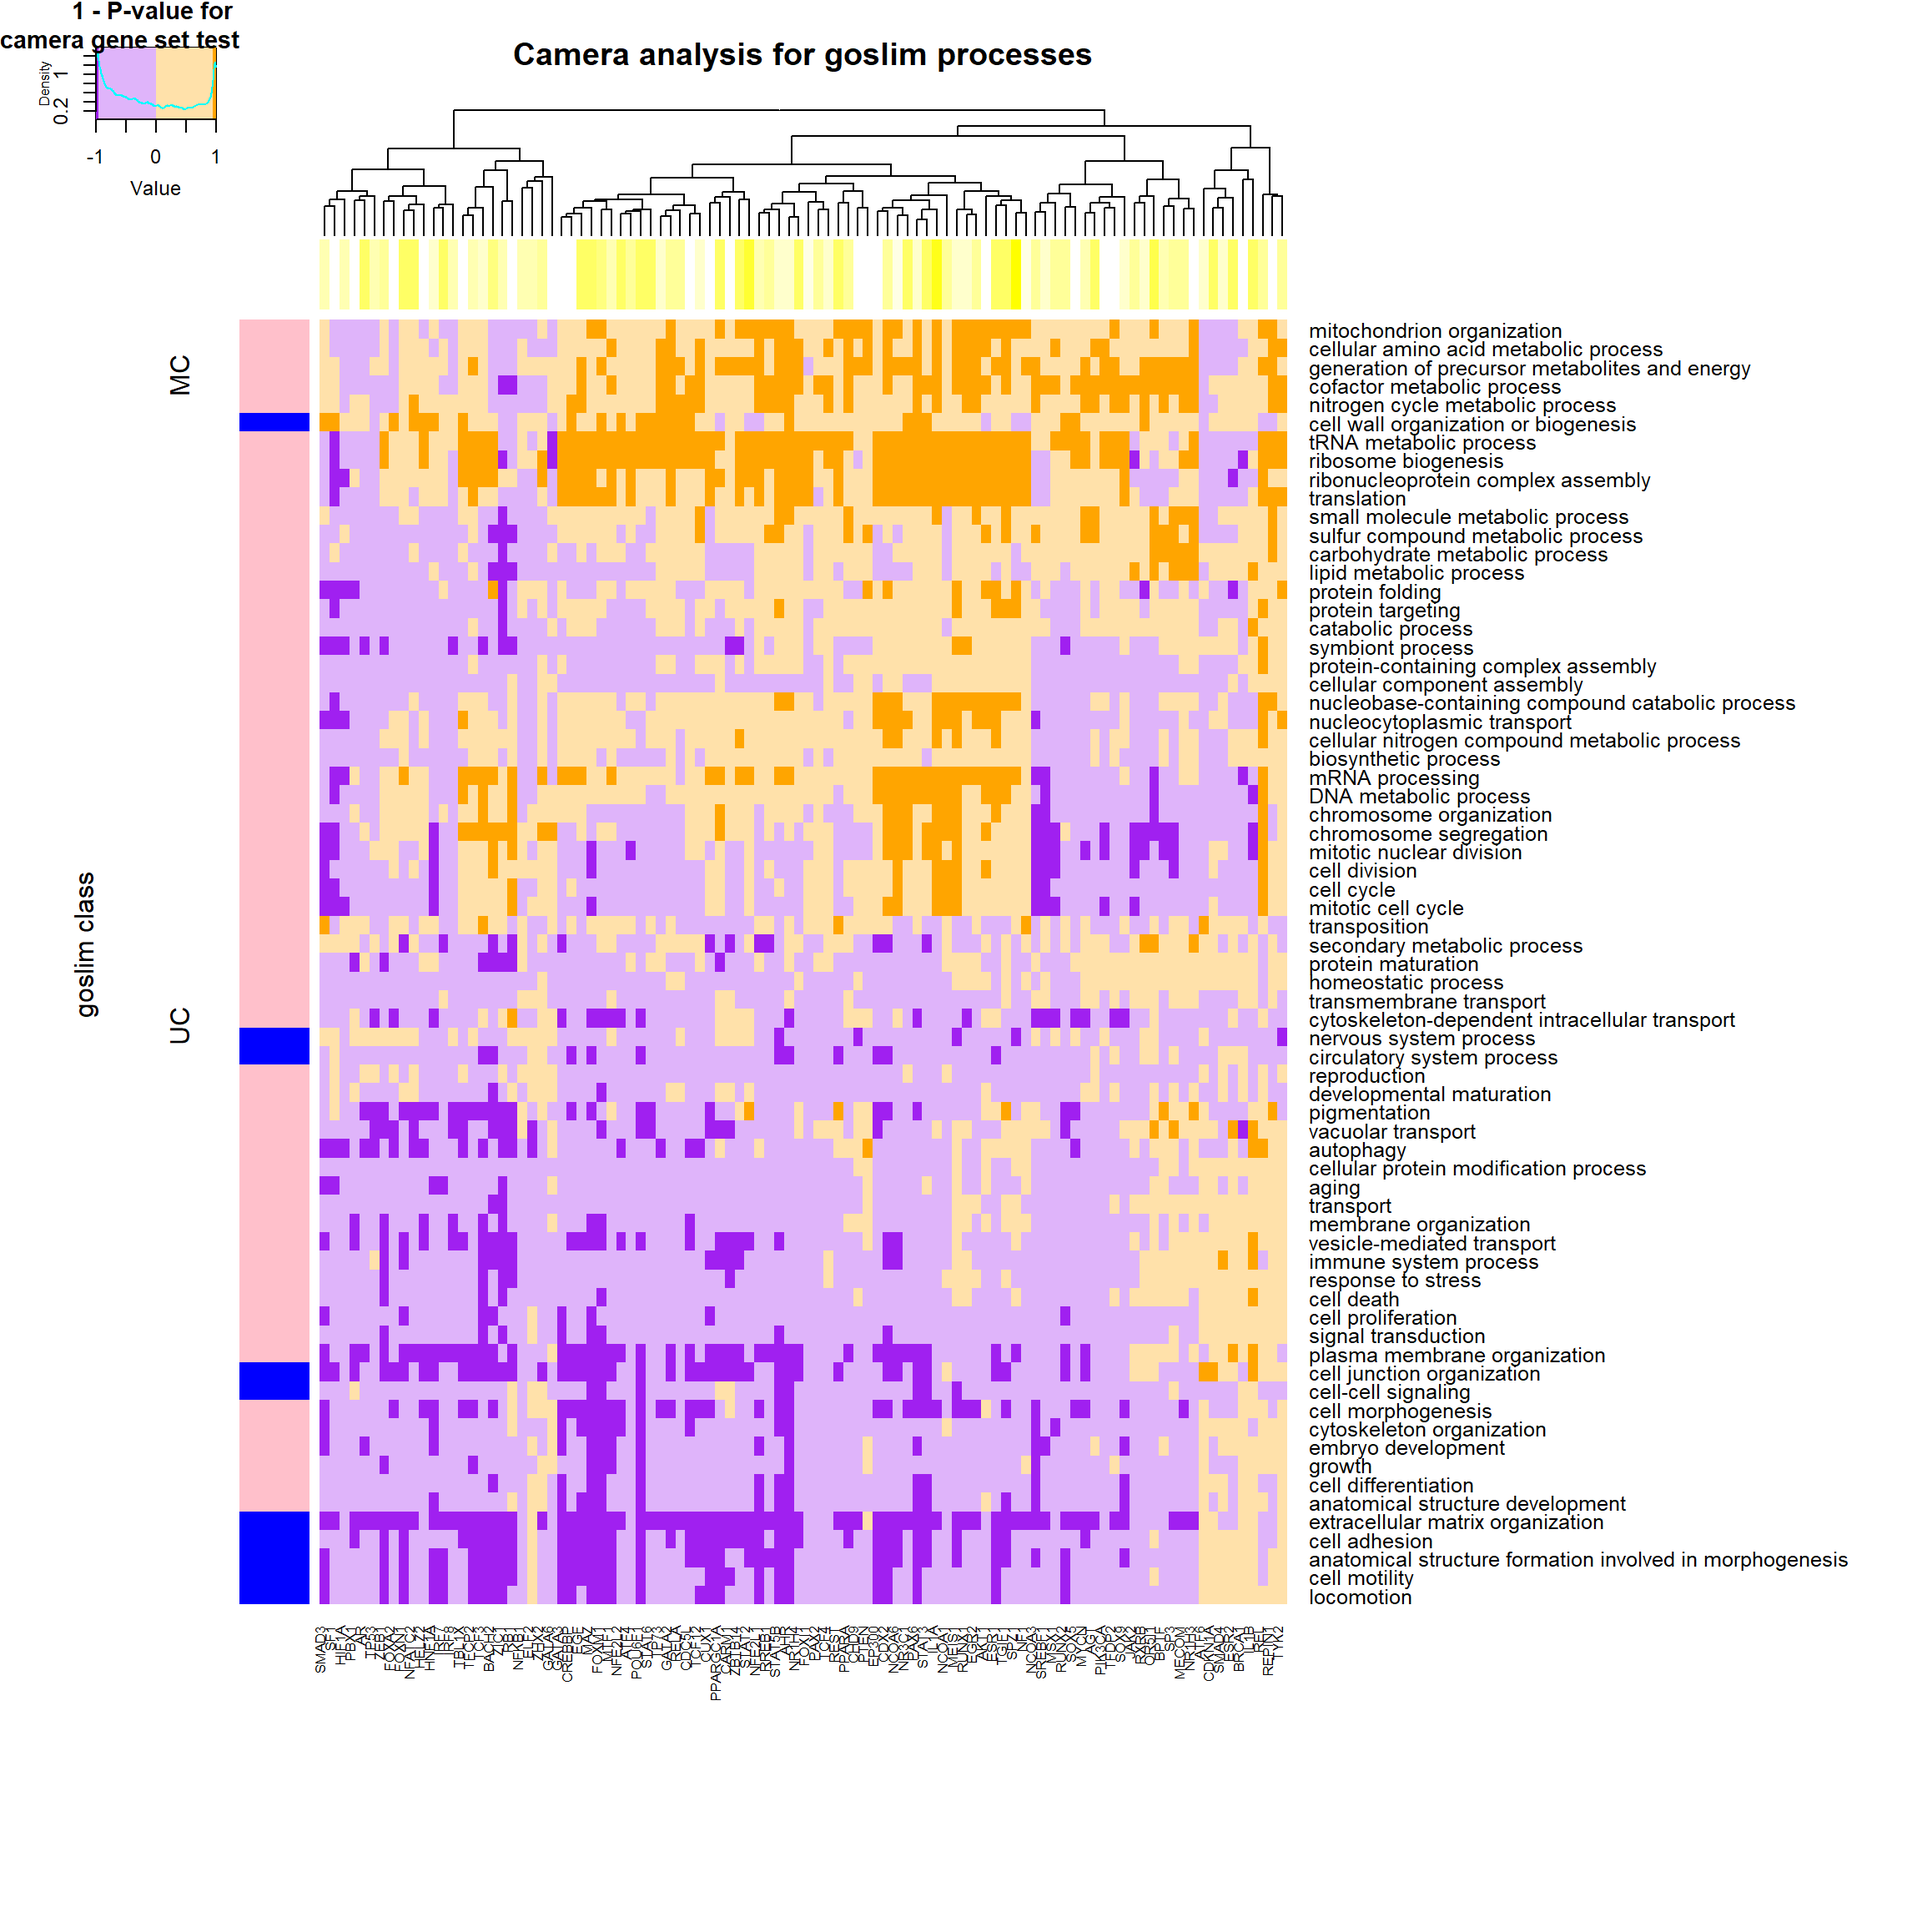
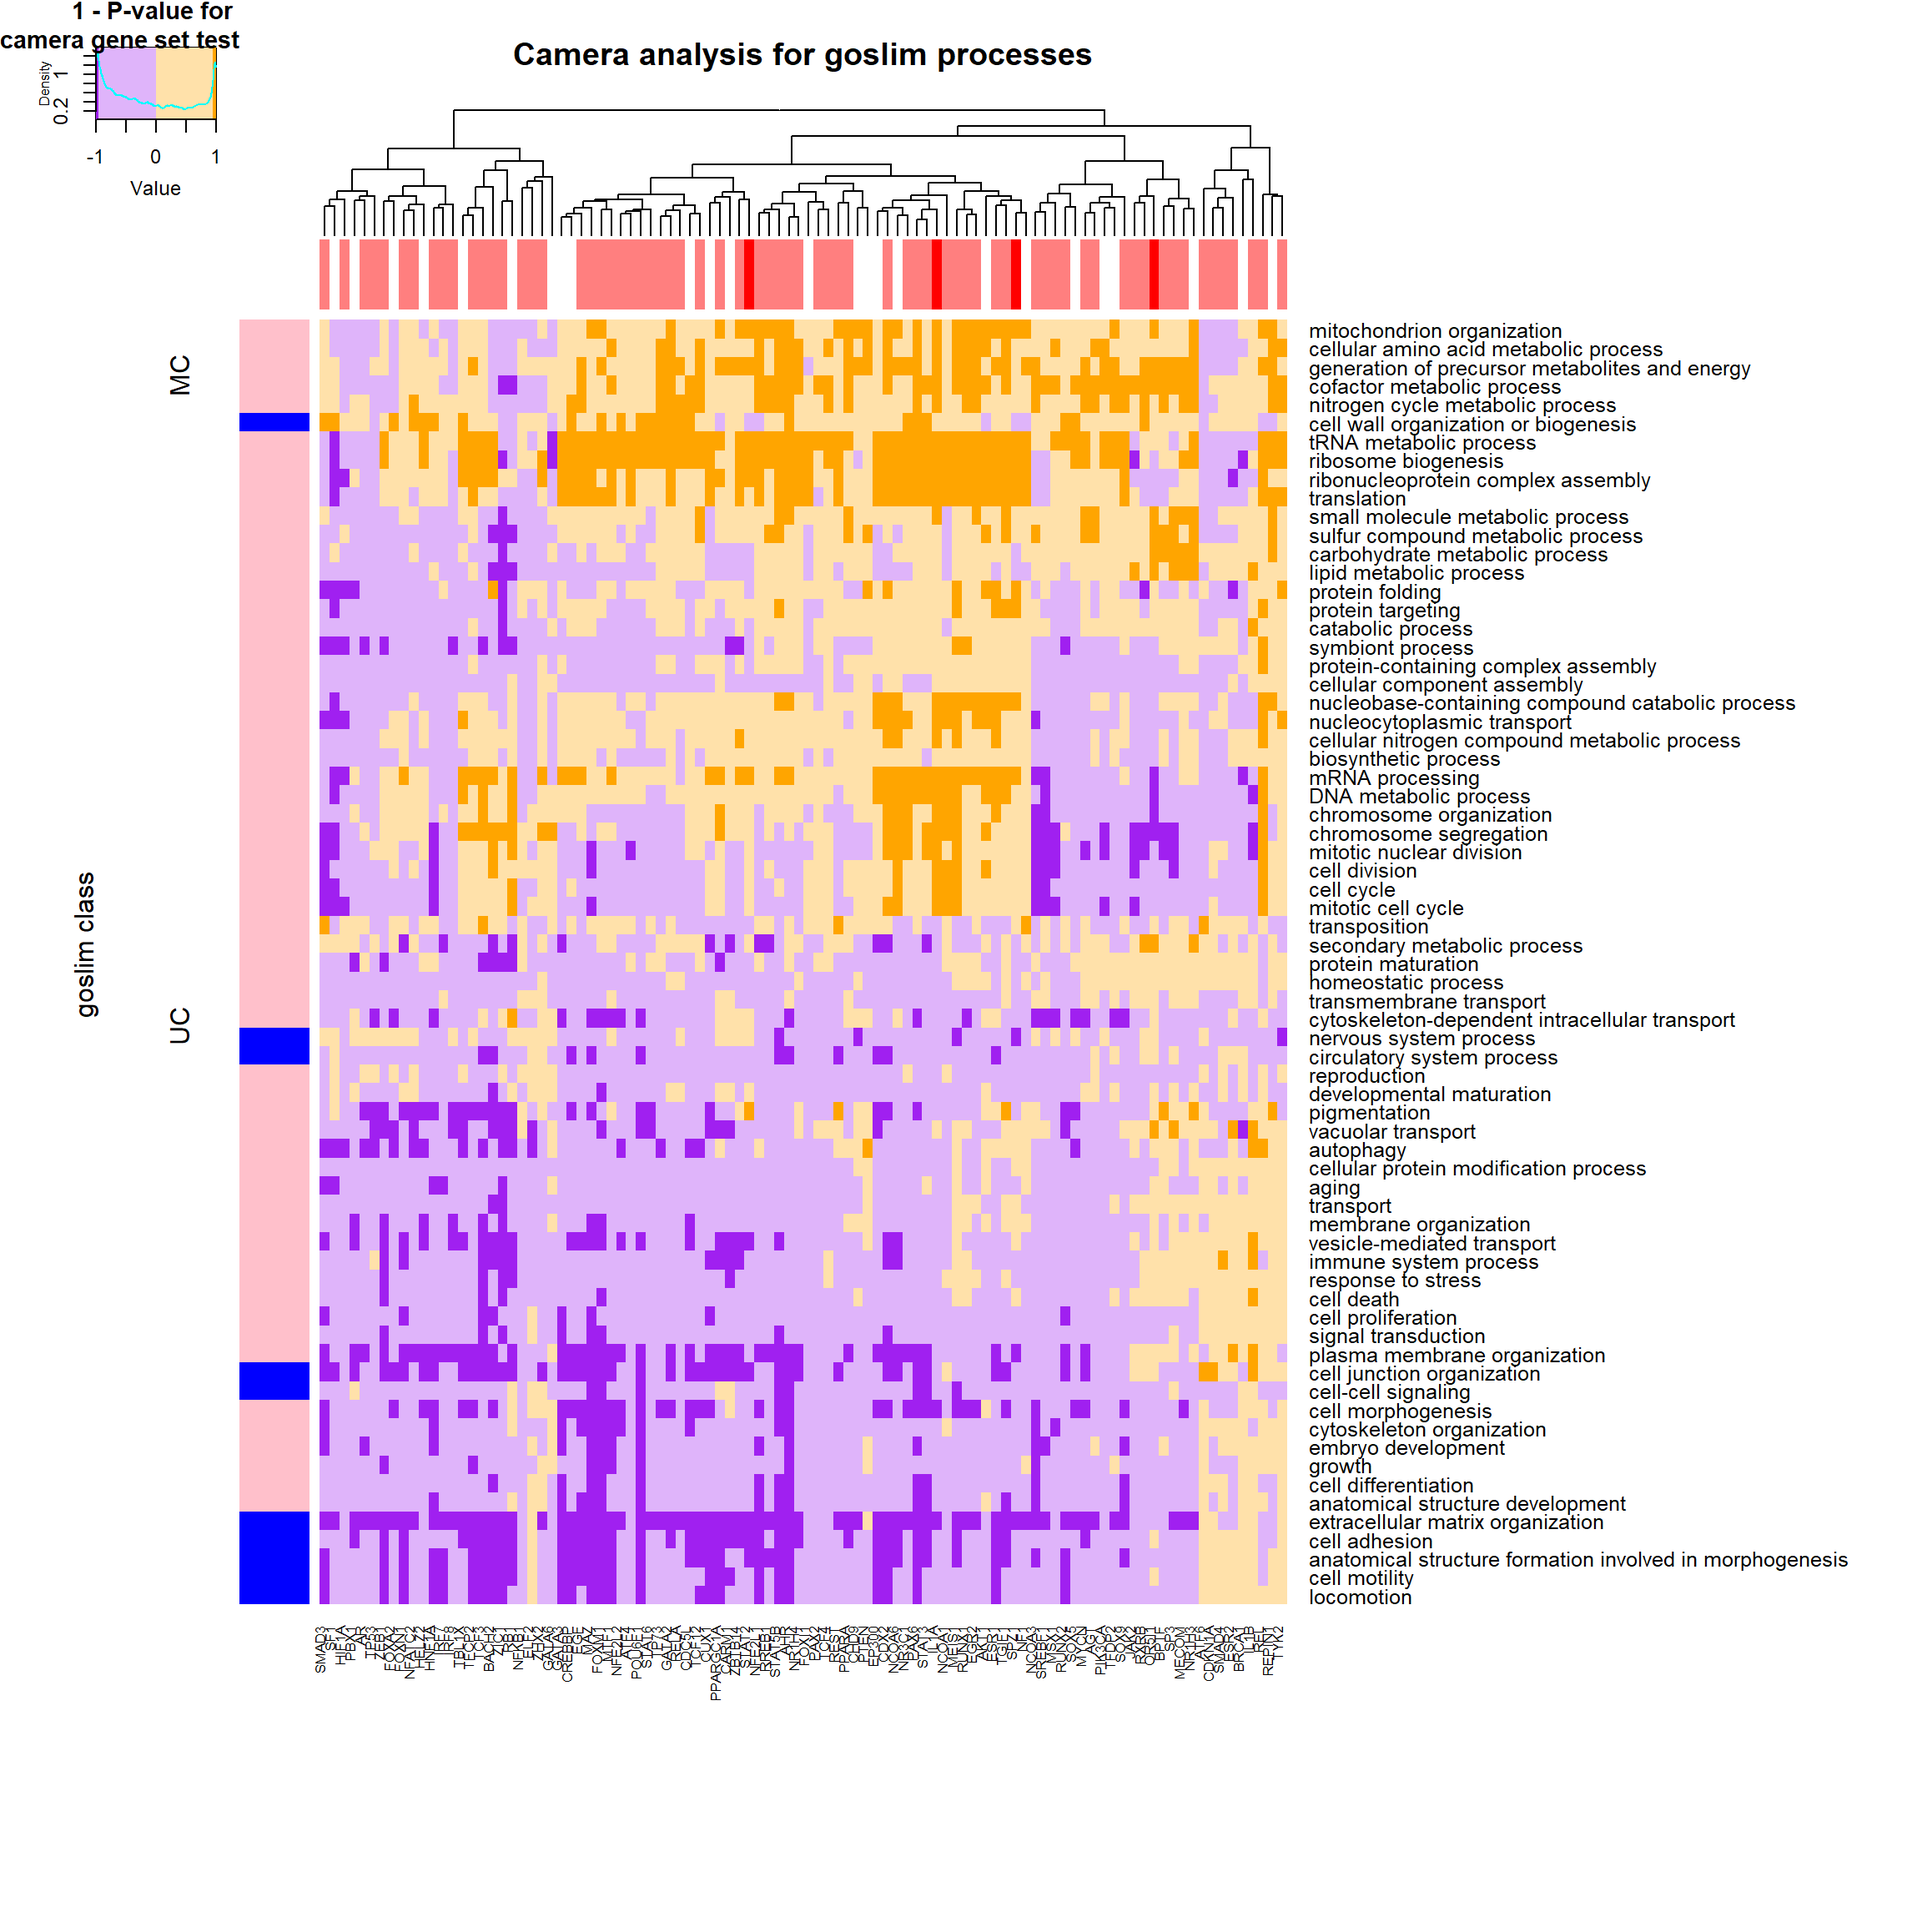
Build site.

Changed region(s): [[0.1562, 0.125, 0.6875, 0.1875]]

diff --git a/docs/gene_set_analysis.html b/docs/gene_set_analysis.html
@@ -361,10 +361,11 @@ div.section {
 </details>
 </li>
 <li>
-<p><details> <summary> <strong style="color:blue;">✔</strong> <strong>Repository version:</strong> <a href="https://github.com/bingrus/myproject/tree/1411de2d2f1071ddf79e6a6ca79662eb42c4e6f2" target="_blank">1411de2</a> </summary></p>
+<p><details> <summary> <strong style="color:blue;">✔</strong> <strong>Repository version:</strong> <a href="https://github.com/bingrus/myproject/tree/90f686666cab58655167fac57023fc593ad9d6a4" target="_blank">90f6866</a> </summary></p>
 Great! You are using Git for version control. Tracking code development and connecting the code version to the results is critical for reproducibility. The version displayed above was the version of the Git repository at the time these results were generated. <br><br> Note that you need to be careful to ensure that all relevant files for the analysis have been committed to Git prior to generating the results (you can use <code>wflow_publish</code> or <code>wflow_git_commit</code>). workflowr only checks the R Markdown file, but you know if there are other scripts or data files that it depends on. Below is the status of the Git repository when the results were generated:
 <pre><code>
 Ignored files:
+    Ignored:    analysis/figure/
     Ignored:    data/.DS_Store
 
 Untracked files:
@@ -429,6 +430,40 @@ Message
 </tr>
 </thead>
 <tbody>
+<tr>
+<td style="text-align:left;">
+Rmd
+</td>
+<td style="text-align:left;">
+<a href="https://github.com/bingrus/myproject/blob/90f686666cab58655167fac57023fc593ad9d6a4/analysis/gene_set_analysis.Rmd" target="_blank">90f6866</a>
+</td>
+<td style="text-align:left;">
+bingrus
+</td>
+<td style="text-align:left;">
+2018-11-27
+</td>
+<td style="text-align:left;">
+wflow_publish(“analysis/gene_set_analysis.Rmd”)
+</td>
+</tr>
+<tr>
+<td style="text-align:left;">
+html
+</td>
+<td style="text-align:left;">
+<a href="https://cdn.rawgit.com/bingrus/myproject/aa188d337c6f704aece67eec58d9d1c4737c0c42/docs/gene_set_analysis.html" target="_blank">aa188d3</a>
+</td>
+<td style="text-align:left;">
+bingrus
+</td>
+<td style="text-align:left;">
+2018-11-27
+</td>
+<td style="text-align:left;">
+Build site.
+</td>
+</tr>
 <tr>
 <td style="text-align:left;">
 Rmd
@@ -733,6 +768,17 @@ Date
 <tbody>
 <tr>
 <td style="text-align:left;">
+<a href="https://github.com/bingrus/myproject/blob/aa188d337c6f704aece67eec58d9d1c4737c0c42/docs/figure/gene_set_analysis.Rmd/plot-1.png" target="_blank">aa188d3</a>
+</td>
+<td style="text-align:left;">
+bingrus
+</td>
+<td style="text-align:left;">
+2018-11-27
+</td>
+</tr>
+<tr>
+<td style="text-align:left;">
 <a href="https://github.com/bingrus/myproject/blob/2dde154c777cf8bf223a3108010ddbaf6db21090/docs/figure/gene_set_analysis.Rmd/plot-1.png" target="_blank">2dde154</a>
 </td>
 <td style="text-align:left;">
@@ -777,7 +823,7 @@ bingrus
 <td align="right">296</td>
 <td align="left">Down</td>
 <td align="right">0.0197967</td>
-<td align="left">0.614413642519273</td>
+<td align="left">0.614413642519274</td>
 <td align="left">NR1H4</td>
 </tr>
 <tr class="even">
@@ -839,6 +885,17 @@ Date
 <tbody>
 <tr>
 <td style="text-align:left;">
+<a href="https://github.com/bingrus/myproject/blob/aa188d337c6f704aece67eec58d9d1c4737c0c42/docs/figure/gene_set_analysis.Rmd/plot2-1.png" target="_blank">aa188d3</a>
+</td>
+<td style="text-align:left;">
+bingrus
+</td>
+<td style="text-align:left;">
+2018-11-27
+</td>
+</tr>
+<tr>
+<td style="text-align:left;">
 <a href="https://github.com/bingrus/myproject/blob/c3b12e2c853041bc04c35e51b215dc8283b4d763/docs/figure/gene_set_analysis.Rmd/plot2-1.png" target="_blank">c3b12e2</a>
 </td>
 <td style="text-align:left;">
@@ -869,15 +926,15 @@ bingrus
 <td align="right">636</td>
 <td align="left">Up</td>
 <td align="right">0.0378782</td>
-<td align="left">0.554598619534061</td>
+<td align="left">0.55459861953406</td>
 <td align="left">TP53</td>
 </tr>
 <tr class="even">
 <td align="right">## barcod</td>
 <td align="left">e plots of r</td>
 <td align="right">esults in sk</td>
-<td align="left">in cancer cell lines</td>
-<td align="left"></td>
+<td align="left">in cancer cell line</td>
+<td align="left">s</td>
 </tr>
 </tbody>
 </table>
@@ -898,6 +955,17 @@ Date
 </tr>
 </thead>
 <tbody>
+<tr>
+<td style="text-align:left;">
+<a href="https://github.com/bingrus/myproject/blob/aa188d337c6f704aece67eec58d9d1c4737c0c42/docs/figure/gene_set_analysis.Rmd/plot3-1.png" target="_blank">aa188d3</a>
+</td>
+<td style="text-align:left;">
+bingrus
+</td>
+<td style="text-align:left;">
+2018-11-27
+</td>
+</tr>
 <tr>
 <td style="text-align:left;">
 <a href="https://github.com/bingrus/myproject/blob/c3b12e2c853041bc04c35e51b215dc8283b4d763/docs/figure/gene_set_analysis.Rmd/plot3-1.png" target="_blank">c3b12e2</a>
@@ -948,8 +1016,8 @@ bingrus
 <p></details></p>
 <div id="order-of-regulator-classes" class="section level4">
 <h4>order of regulator classes</h4>
-<pre><code>[1] &quot;CNV&quot;              &quot;CNV,regulator DE&quot; &quot;CNV,target set&quot;  
-[4] &quot;NA&quot;               &quot;regulator DE&quot;     &quot;target set&quot;      </code></pre>
+<pre><code>[1] &quot;CNV,target set&quot;   &quot;CNV&quot;              &quot;regulator DE&quot;    
+[4] &quot;CNV,regulator DE&quot; &quot;target set&quot;       &quot;NA&quot;              </code></pre>
 </div>
 <div id="labeled-camera-results" class="section level3">
 <h3>Labeled camera results</h3>
@@ -1019,9 +1087,8 @@ bingrus
 </table>
 <p></details></p>
 </div>
-<div id="regulators-colored-with-phylostrata" class="section level3">
-<h3>regulators colored with phylostrata</h3>
-<pre><code> [1] &quot;2&quot;  &quot;3&quot;  &quot;4&quot;  &quot;5&quot;  &quot;6&quot;  &quot;7&quot;  &quot;8&quot;  &quot;9&quot;  &quot;10&quot; &quot;11&quot; &quot;12&quot;</code></pre>
+<div id="regulators-colored-with-phylostrata-red-is-late-metazoan-white-is-unicellular-pink-is-early-metazoan" class="section level3">
+<h3>regulators colored with phylostrata (red is late metazoan, white is unicellular, pink is early metazoan)</h3>
 <p><img src="figure/gene_set_analysis.Rmd/another%20hatmap-1.png" width="1152" style="display: block; margin: auto;" /></p>
 <details> <summary><em>Expand here to see past versions of another hatmap-1.png:</em></summary>
 <table style="border-collapse:separate; border-spacing:5px;">
